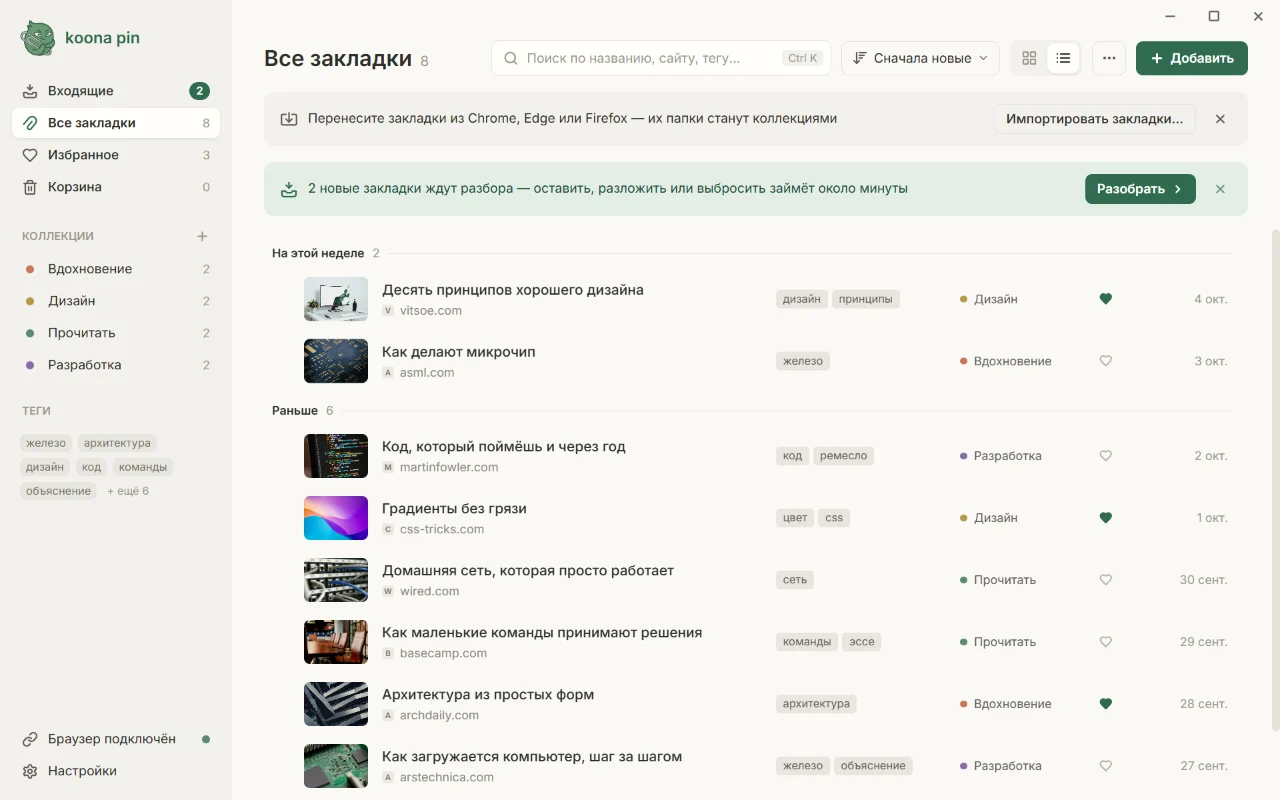
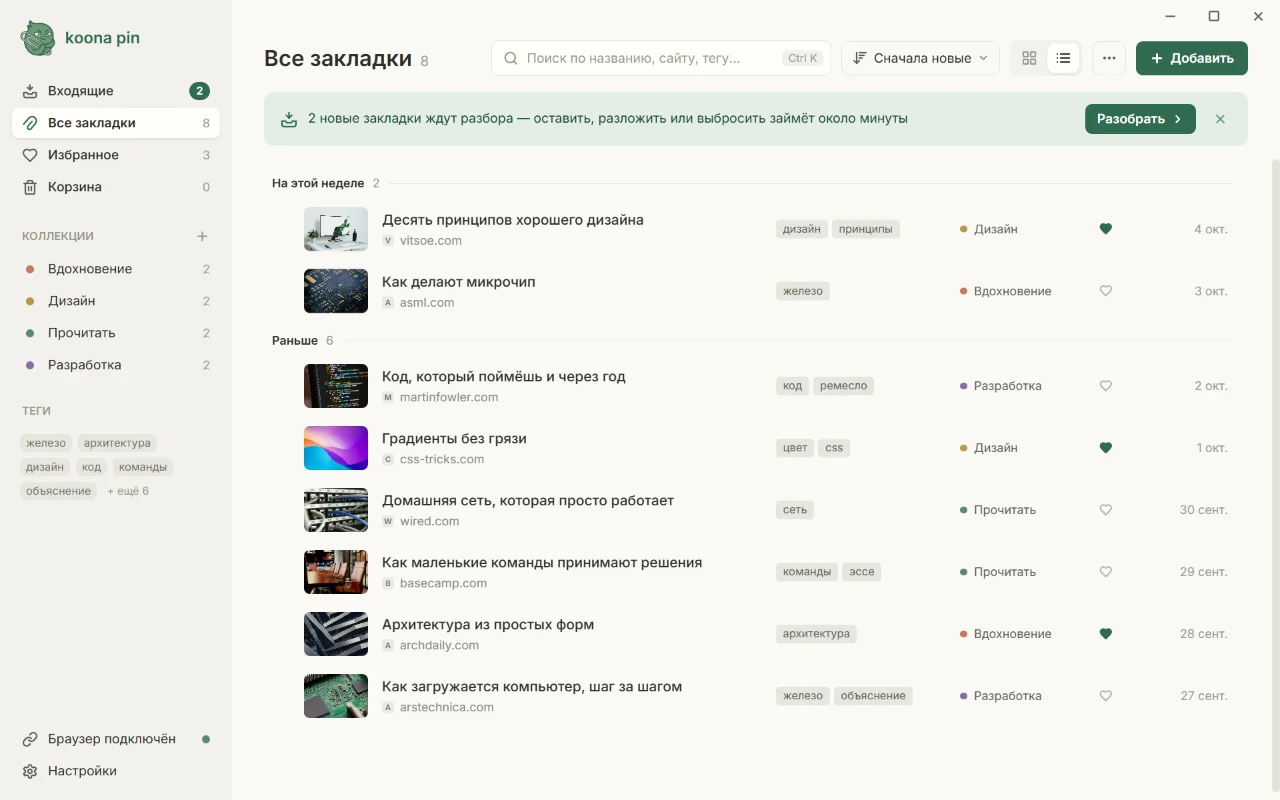
fix: a starter set with one Koona Pin link, and screenshots without a hovered card (0.6.1)
The starter set had three pages of Koona Pin. Now, newest first: Koona apps (koona.app),
Start here: how Koona Pin works, then Firefox, Bun and Lunacy (owner, 9 October 2026).
Strings in all 15 catalogs; the privacy policy names firefox.com among the first start's
requests in every language; Р-65 amended.

koona.app's preview in the app is og-en.jpg, and the last retake caught the system's
pointer over the first card: its selection box and «…» were in the picture. The site
shots now turn the pointer off and drop the focus before each shot (a style property:
the app's CSP refuses a <style>), and close the import offer of a new library. Site and
store screenshots retaken.

diff --git a/src/services/starter.ts b/src/services/starter.ts
@@ -2,25 +2,16 @@ import type { TFunction } from "i18next";
 import type { StarterLink } from "../types";
 
 /**
- * The starter set of a new library (NP-117, sheet 43), newest first: the
- * site's pages, then Bun and Lunacy — good programs, not advertising. The
- * link to the MCP instructions joins when its page is on the site (NP-091,
- * NP-092), «Koona apps» when koona.app lists them. Program names stay as they
- * are in every language.
+ * The starter set of a new library (NP-117, sheet 43), newest first: Koona's apps, how Koona Pin works,
+ * then Firefox, Bun and Lunacy — good programs, not advertising. One link to Koona Pin itself is enough
+ * (owner, 9 October 2026): the extension and the changelog are a click away from it. Program names stay
+ * as they are in every language.
  */
 export function starterLinks(t: TFunction): StarterLink[] {
   return [
+    { url: "https://koona.app/", title: t("starter.links.koona.title"), description: t("starter.links.koona.description") },
     { url: "https://koona.app/pin/#how", title: t("starter.links.start.title"), description: t("starter.links.start.description") },
-    {
-      url: "https://koona.app/pin/downloads/#extension",
-      title: t("starter.links.extension.title"),
-      description: t("starter.links.extension.description"),
-    },
-    {
-      url: "https://koona.app/pin/changelog/",
-      title: t("starter.links.changelog.title"),
-      description: t("starter.links.changelog.description"),
-    },
+    { url: "https://www.firefox.com/", title: "Firefox", description: t("starter.links.firefox.description") },
     { url: "https://bun.com/", title: "Bun", description: t("starter.links.bun.description") },
     { url: "https://www.lunacyapp.com/", title: "Lunacy", description: t("starter.links.lunacy.description") },
   ];

diff --git a/src/services/starter.test.ts b/src/services/starter.test.ts
@@ -3,11 +3,16 @@ import i18n, { languages } from "../i18n";
 import { starterLinks } from "./starter";
 
 describe("starter links (NP-117)", () => {
-  it("are web pages in the order of the set, Bun and Lunacy last", () => {
+  it("are web pages in the order of the set: Koona, Koona Pin, then Firefox, Bun and Lunacy", () => {
     const links = starterLinks(i18n.getFixedT("en"));
-    expect(links.map((l) => new URL(l.url).hostname)).toEqual(["koona.app", "koona.app", "koona.app", "bun.com", "www.lunacyapp.com"]);
-    expect(links.every((l) => l.url.startsWith("https://"))).toBe(true);
-    expect(links.slice(-2).map((l) => l.title)).toEqual(["Bun", "Lunacy"]);
+    expect(links.map((l) => l.url)).toEqual([
+      "https://koona.app/",
+      "https://koona.app/pin/#how",
+      "https://www.firefox.com/",
+      "https://bun.com/",
+      "https://www.lunacyapp.com/",
+    ]);
+    expect(links.slice(-3).map((l) => l.title)).toEqual(["Firefox", "Bun", "Lunacy"]);
   });
 
   it("have a title and a description in every language of the app", () => {

diff --git a/site/content/changelog/0.6.1.md b/site/content/changelog/0.6.1.md
@@ -1,0 +1,5 @@
+---
+date: 2026-10-09
+---
+
+- A new library starts with fewer links about Koona Pin itself: Koona's apps, how Koona Pin works, then Firefox, Bun and Lunacy.
